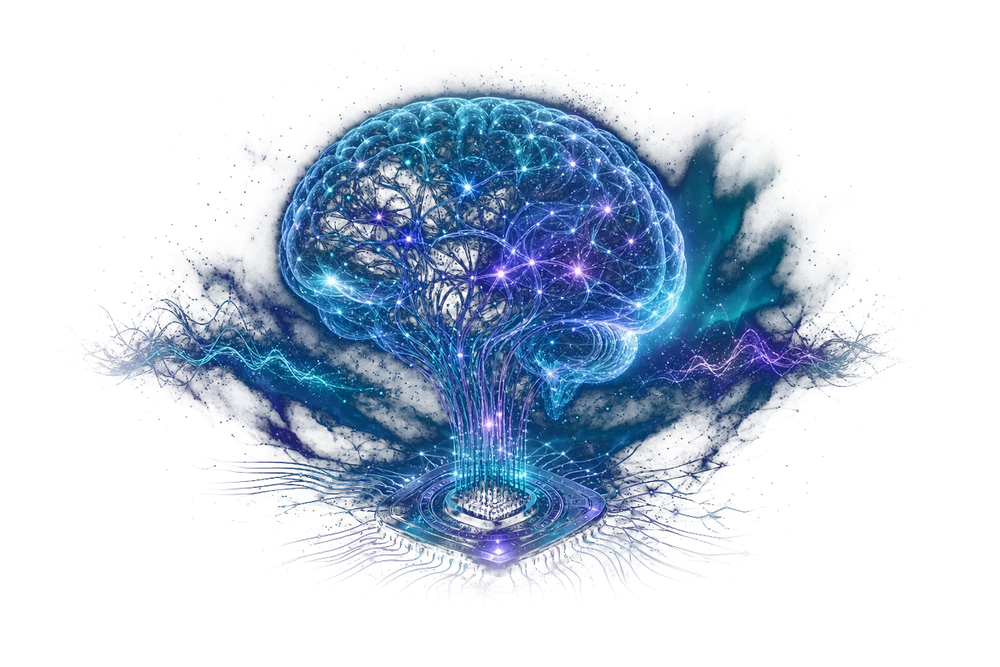
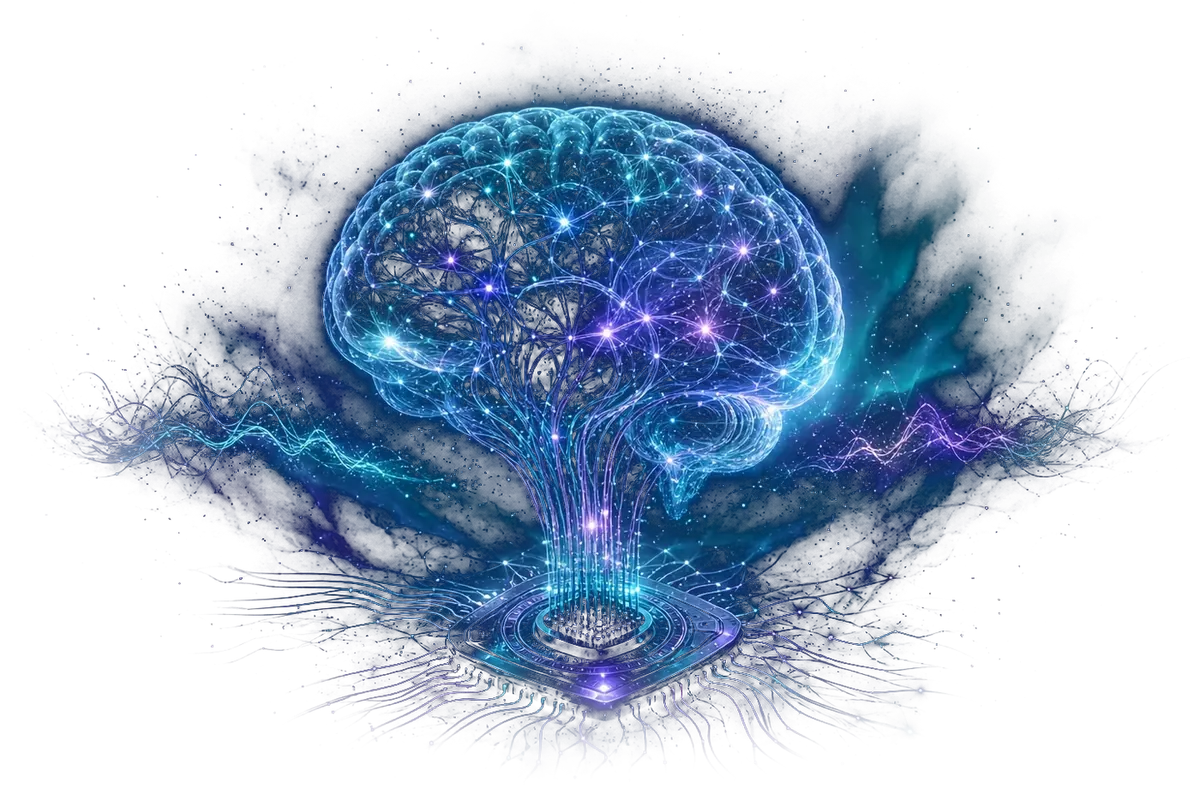
fix(v4.5.23): Hero 消除空位感——配图紧致裁剪 + 按语言自适应左伸填满中缝
问题：v4.5.22 文字墨迹与配图发光体之间空缝达 340px，右列下方大片空白，
观感"没做完"。

素材：
- 按 alpha bbox 紧致裁剪（源 69..1452 / 39..955，四边留 2%），去掉图内空白边
- 不透明像素占比 35.4% → 46.9%；导出 1200×794 / q78 / 367KB
- 四边台阶与底缘亮线自检仍 ≤3 / ≤4，无可见矩形边界

版面：
- 文字列固定 minmax(340px,530px)：实测 EN tagline 墨迹需 388+126=514px，
  低于此值英文桌面端 tagline 折行（纯 EN 回归），故不再用百分比列宽
- 配图 justify-self:end + 超宽左伸，向右仍贴栏线，向左吃掉中缝：
  中缝 340px → 中文 90px / 英文 105px
- 按语言给伸量：zh width:calc(100% + 175px)；en width:calc(100% - 29px)
  （EN 墨迹右缘比中文靠右约 200px，照中文伸量会压住 tagline 尾巴）
  两式都只相对"栏左"生效，与视口宽度无关，1280~1440 中缝稳定
- ≤900 单列布局复位中缝，选择器补 html[data-lang] 提高权重，
  避免被 html[data-lang="en"] 规则覆盖

尺寸：hero 中文 1132×564（原 392）/ 英文 1132×429；配图宽 743 / 539（原 483）

自检：
- hero_bci_check：新增「文字墨迹右缘/中缝须落在 60~200px」断言，
  重叠判定从元素盒改为文本节点墨迹 union（桌面），并补 960 窄桌面视口
  → 7 视口 × 中英 = 138 项全过
- i18n 运行时 49/49、DB 枚举 16/16、双语布局 42/42 全过

diff --git a/index.html b/index.html
@@ -464,21 +464,39 @@
 
   /* ---------- Hero ---------- */
   .hero{
-    display:grid;grid-template-columns:minmax(0,1.12fr) minmax(0,.88fr);
+    /* v4.5.23 消空位：文字块实际墨迹只有 ~330px 宽（姓名/简介/按钮都短），
+       文字列再宽也只会把中缝撑大。但又不能把文字列硬收窄到 400px 以内——
+       EN 的 tagline "🎓 Tianjin University · Intelligent Medical Engineering"
+       连带头像占位共需 388+126=514px，收窄会让它折成两行（zh 203px 不受影响，
+       所以这是 EN 独有回归）。故文字列固定 minmax(340px,530px)（保住 EN 单行），
+       改由配图向左伸进文字列右侧的空档（见 .hero-bci 的 -140px），
+       中缝由 340px 收到 ~59px（到可见墨迹）。 */
+    display:grid;grid-template-columns:minmax(340px,530px) minmax(0,1fr);
     gap:34px;align-items:center;padding:36px 36px;
   }
   .hero-top{display:flex;align-items:center;gap:20px}
-  /* Hero 右侧脑机接口配图（v4.5.21）：素材已按亮度键出 alpha（深色底完全透明，
+  /* Hero 右侧脑机接口配图（v4.5.23）：素材已按亮度键出 alpha（深色底完全透明，
      不存在图片矩形边界），再叠 mix-blend-mode:screen 让深色像素"等于不存在"
      （screen 与黑=保留背景），于是只有发光的大脑本身浮在卡片星空上——实测图片四边
-     "内-外"亮度台阶 ≤2 级（上-0.07/下+2.0/左-0.55），肉眼看不出边界；若改用
-     drop-shadow 会在亮星云处压出一圈暗斑（环带掉到 38，核心亮度只有 64），故不用阴影。
-     配图宽度撑满右列（483px，占卡片高 82%），只占右列、垂直居中，
-     窄屏（<900px）自动落到文字下方。 */
+     "内-外"亮度台阶 ≤2 级，肉眼看不出边界；若改用 drop-shadow 会在亮星云处压出
+     一圈暗斑，故不用阴影。
+     v4.5.23 变化：① 素材从 1000x667 换成 1200x794 的**紧致裁剪**版——原稿四周有
+     大量透明边（alpha>16 只占画面 35.4%），图框本身就读成"空槽位"；裁掉透明边后
+     画面占比 46.9%，发光体直接顶到图框边缘。② 配图右缘仍贴栏线，但整块向左多伸
+     140px 进文字列右侧的空档（width:calc(100%+140px) + margin-left:-140px）：
+     图框左缘落在文字容器右缘之外 20px、距可见墨迹约 59px，空档被星云填掉，
+     而文字/按钮/EN tagline 的位置完全没动。
+     窄屏（<900px）媒体查询里 width:auto 复位，自动落到文字下方居中。 */
   .hero-bci{
-    margin:0;position:relative;width:100%;max-width:none;
-    justify-self:center;align-self:center;pointer-events:none;
+    /* 图框右缘贴栏线（justify-self:end），宽度超出所在网格列时只会向左溢出——
+       于是"向左伸多少"就等于"把中缝吃掉多少"。用量按语言给：
+       zh 文字墨迹右缘 ≈ 栏左+314，图框左缘取 栏左+389（淡星云 栏左+404）⇒ 距墨迹 ~90px；
+       en tagline 长得多（墨迹右缘 ≈ 栏左+514），若照 zh 伸 175px 会压住 tagline 尾巴，
+       故改为收窄 29px 右对齐，同样留出 ~90px。两式都只跟"栏左"有关，与视口宽度无关。 */
+    position:relative;width:calc(100% + 175px);max-width:none;
+    justify-self:end;align-self:center;pointer-events:none;
   }
+  html[data-lang="en"] .hero-bci{width:calc(100% - 29px)}
   .hero-bci img{
     display:block;width:100%;height:auto;
     mix-blend-mode:screen;
@@ -1022,7 +1040,9 @@
     .split.flip .sec-fig{order:0}
     .sec-fig{min-height:220px}
     .hero{grid-template-columns:1fr;gap:26px;padding:30px 26px}
-    .hero-bci{max-width:360px;margin:2px auto 0}
+    /* 单列布局：配图回到文字下方居中，必须把按语言的左伸宽度彻底复位
+       （选择器权重需 ≥ html[data-lang="en"] .hero-bci，故同样带 html[data-lang]） */
+    html[data-lang] .hero-bci{width:auto;max-width:360px;margin:2px auto 0;justify-self:center}
     .hero-fig{min-height:240px}
     .card{padding:26px 24px}
   }
@@ -2013,7 +2033,7 @@ header.hero.card{overflow:visible}
       </div>
     </div>
     <figure class="hero-bci">
-      <img src="assets/hero-bci.webp" width="1000" height="667" decoding="async"
+      <img src="assets/hero-bci.webp" width="1200" height="794" decoding="async"
            alt="脑机接口概念图：发光的神经网络大脑与神经芯片" />
     </figure>
   </header>
